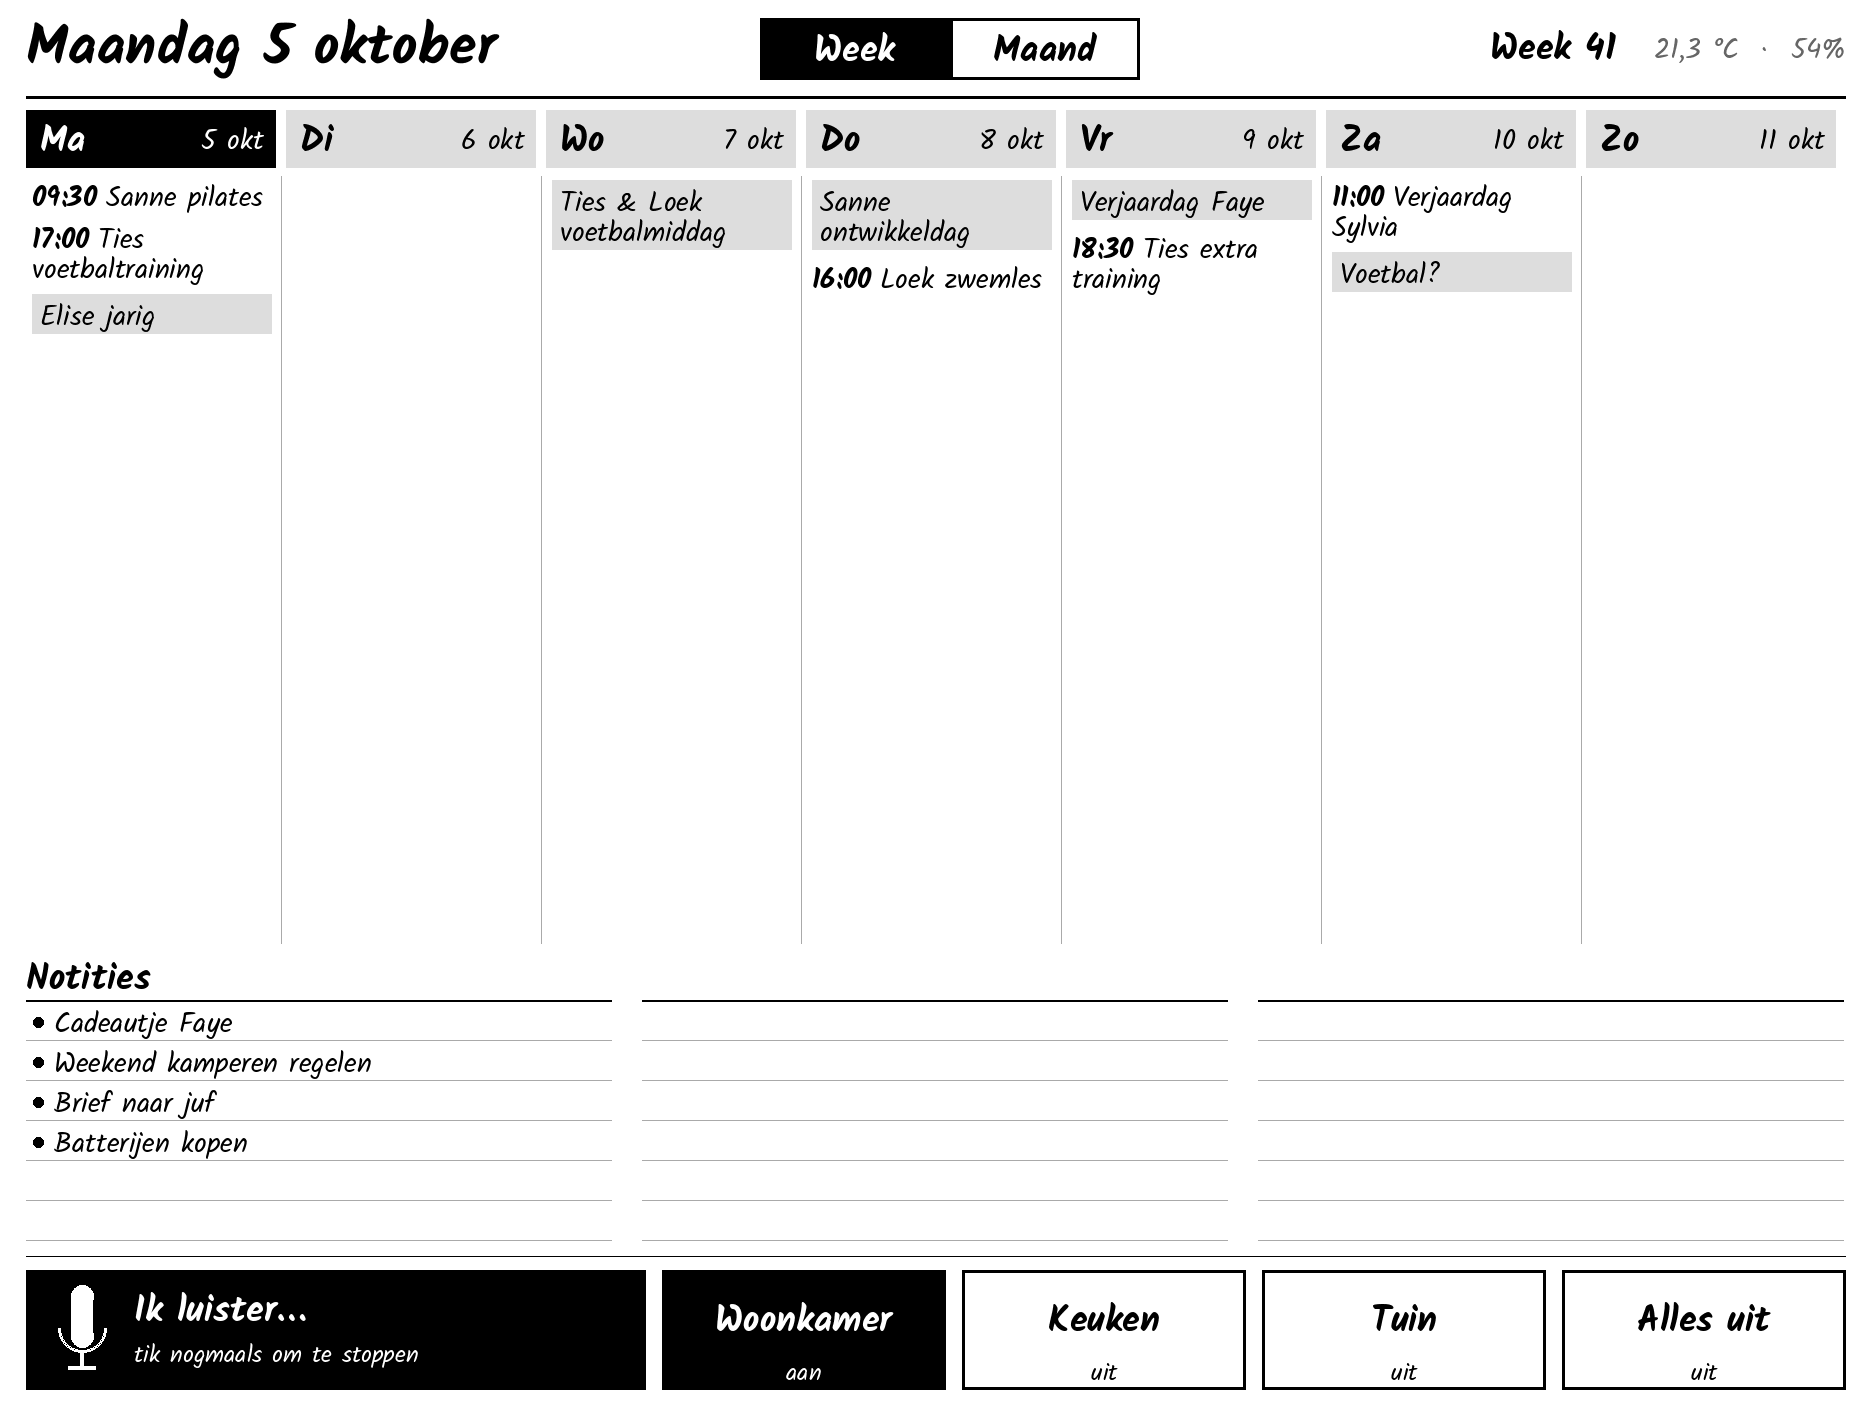
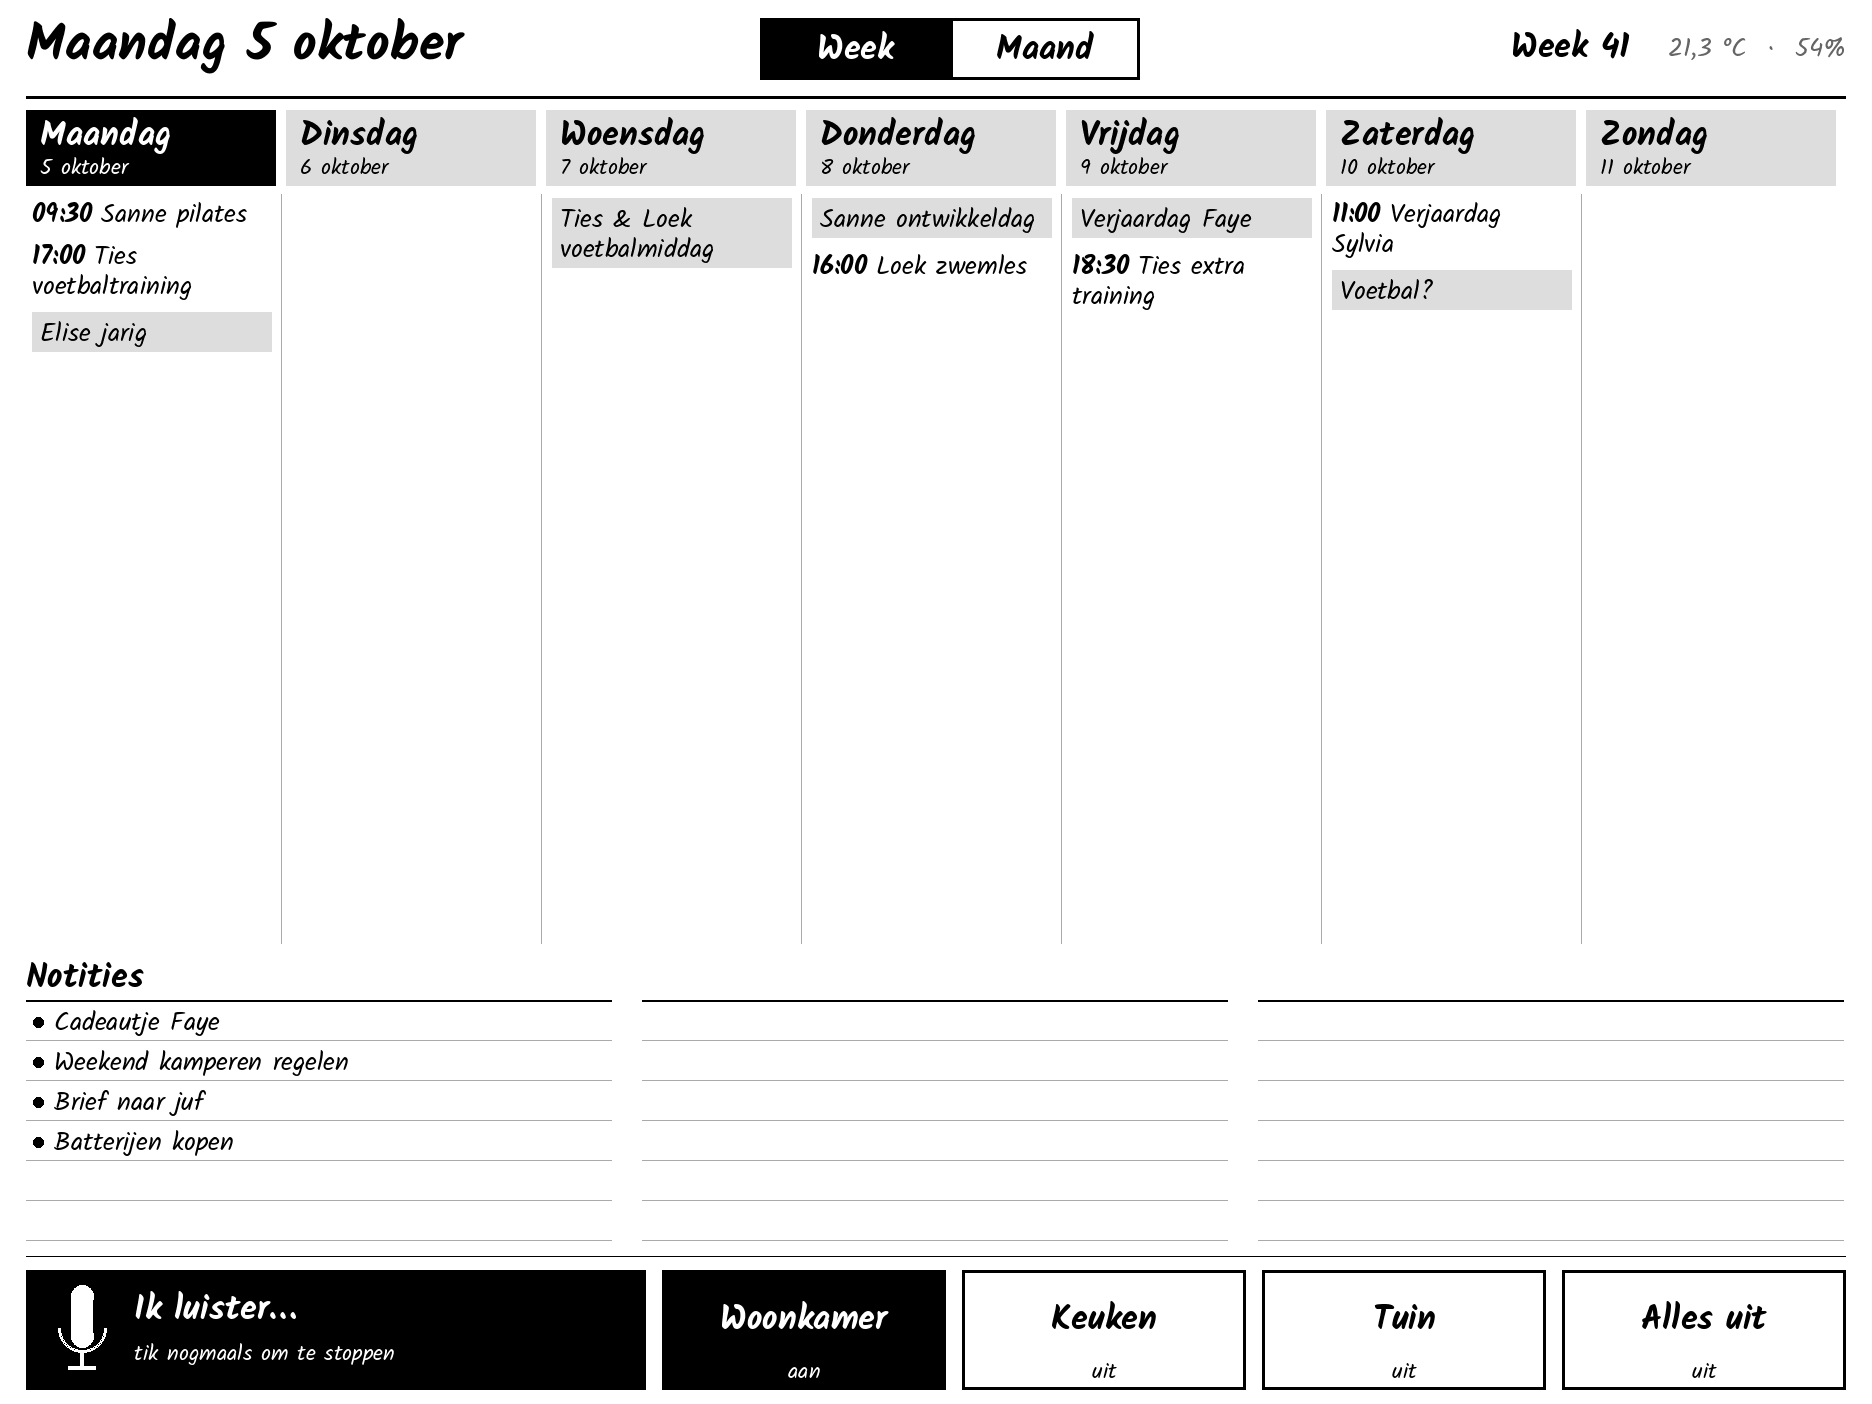
Kalam at the original sizes, full day names with the date underneath
Claude-Session: https://claude.ai/code/session_016Q8iTAxGynamuoJ2KD6AXo

diff --git a/esphome/ink_kalender.h b/esphome/ink_kalender.h
@@ -47,7 +47,7 @@ constexpr int TAB_X = 760;
 // Weekscherm: week over de volle breedte, notities eronder
 constexpr int WEEK_Y = 110;
 constexpr int WEEK_KOL = BREED / 7;
-constexpr int WEEK_KOP_H = 58;
+constexpr int WEEK_KOP_H = 76;
 constexpr int WEEK_EIND = 944;
 constexpr int NOTITIE_Y = 958;
 constexpr int NOTITIE_EIND = 1240;
@@ -446,11 +446,6 @@ inline int week_afspraak(Display &it, const Fonts &f, const Afspraak &a, int x, 
 
 inline void teken_week(Display &it, const Staat &s, const Fonts &f) {
   const Datum maandag = plus_dagen(s.vandaag, -weekdag(s.vandaag));
-  // Volledige dagnamen als ze allemaal passen naast de datum, anders "Ma", "Di", ...
-  bool lange_namen = true;
-  for (int i = 0; i < 7; i++)
-    if (breedte(it, f.kop, DAG_LANG[i]) + breedte(it, f.normaal, "30 sep") > WEEK_KOL - 10 - 14 - 36)
-      lange_namen = false;
   for (int i = 0; i < 7; i++) {
     const Datum dag = plus_dagen(maandag, i);
     const bool is_vandaag = s.tijd_geldig && dag == s.vandaag;
@@ -460,11 +455,11 @@ inline void teken_week(Display &it, const Staat &s, const Fonts &f) {
     const Color kop_achter = is_vandaag ? ZWART : GRIJS_LICHT;
     const Color kop_tekst = is_vandaag ? WIT : ZWART;
     it.filled_rectangle(x, WEEK_Y, w, WEEK_KOP_H, kop_achter);
-    char buf[16];
-    std::snprintf(buf, sizeof(buf), "%d %s", dag.d, MAAND_KORT[dag.m - 1]);
-    tekst(it, x + w - 12, WEEK_Y + 9, f.normaal, kop_tekst, kop_achter, TextAlign::TOP_RIGHT, buf);
-    tekst(it, x + 14, WEEK_Y + 2, f.kop, kop_tekst, kop_achter, TextAlign::TOP_LEFT,
-          lange_namen ? DAG_LANG[i] : DAG_KORT[i]);
+    // Dagnaam groot, datum klein eronder
+    tekst(it, x + 14, WEEK_Y - 2, f.kop, kop_tekst, kop_achter, TextAlign::TOP_LEFT, DAG_LANG[i]);
+    char buf[24];
+    std::snprintf(buf, sizeof(buf), "%d %s", dag.d, MAAND[dag.m - 1]);
+    tekst(it, x + 14, WEEK_Y + 40, f.klein, kop_tekst, kop_achter, TextAlign::TOP_LEFT, buf);
 
     if (i > 0)
       it.vertical_line(x - 5, WEEK_Y + WEEK_KOP_H + 8, WEEK_EIND - WEEK_Y - WEEK_KOP_H - 8, GRIJS);

diff --git a/tools/preview/render.py b/tools/preview/render.py
@@ -24,11 +24,11 @@ UIT = ROOT / "docs"
 # Moet overeenkomen met de font:-sectie in esphome/ink-kalender.yaml.
 FAMILIE = "Kalam"  # = substitution 'lettertype'
 FONT_DEFS = [  # (naam, gewicht, grootte)
-    ("klein", 400, 24),
-    ("normaal", 400, 28),
-    ("vet", 700, 28),
-    ("kop", 700, 36),
-    ("groot", 700, 56),
+    ("klein", 400, 22),
+    ("normaal", 400, 26),
+    ("vet", 700, 26),
+    ("kop", 700, 34),
+    ("groot", 700, 52),
 ]
 SCENARIOS = ["week", "maand", "luisteren", "voorstel", "melding"]
 TEKENS = list(range(32, 0x250)) + [0x2013, 0x2018, 0x2019, 0x201C, 0x201D, 0x2026]
